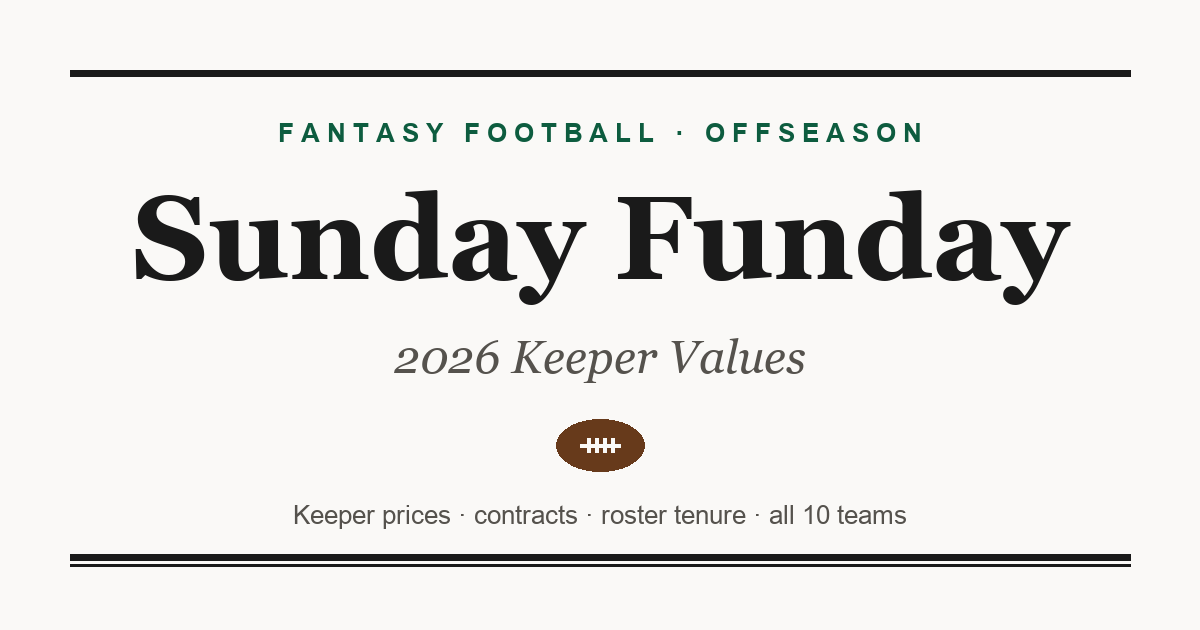
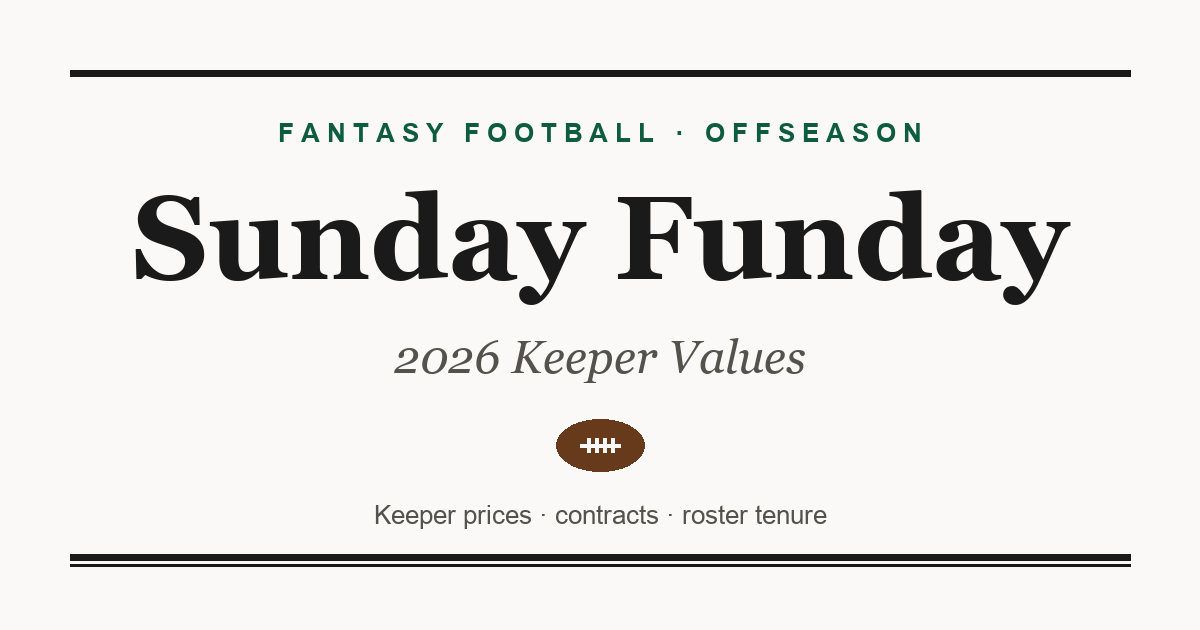
Drop 'all 10 teams' from preview card copy

Changed region(s): [[0.2467, 0.7841, 0.7708, 0.8444]]

diff --git a/index.html b/index.html
@@ -4,20 +4,20 @@
 <meta charset="UTF-8">
 <meta name="viewport" content="width=device-width, initial-scale=1.0">
 <title>Sunday Funday — 2026 Keeper Values</title>
-<meta name="description" content="Keeper prices, contracts, and roster tenure for all 10 Sunday Funday teams — updated with live ESPN market values.">
+<meta name="description" content="Keeper prices, contracts, and roster tenure — updated with live ESPN market values all offseason.">
 
 <!-- link previews (iMessage, texts, social) -->
 <meta property="og:type" content="website">
 <meta property="og:site_name" content="Sunday Funday">
 <meta property="og:title" content="Sunday Funday — 2026 Keeper Values">
-<meta property="og:description" content="Keeper prices, contracts, and roster tenure for all 10 teams. Build your keeper plan against the $100 cap.">
+<meta property="og:description" content="Who are you keeping? Prices, contracts, and roster tenure — build your plan against the $100 cap.">
 <meta property="og:url" content="https://mheinlen31.github.io/sunday-funday/">
 <meta property="og:image" content="https://mheinlen31.github.io/sunday-funday/assets/og-image.png">
 <meta property="og:image:width" content="1200">
 <meta property="og:image:height" content="630">
 <meta name="twitter:card" content="summary_large_image">
 <meta name="twitter:title" content="Sunday Funday — 2026 Keeper Values">
-<meta name="twitter:description" content="Keeper prices, contracts, and roster tenure for all 10 teams.">
+<meta name="twitter:description" content="Who are you keeping? Prices, contracts, and roster tenure.">
 <meta name="twitter:image" content="https://mheinlen31.github.io/sunday-funday/assets/og-image.png">
 
 <link rel="icon" type="image/png" href="assets/favicon.png">
